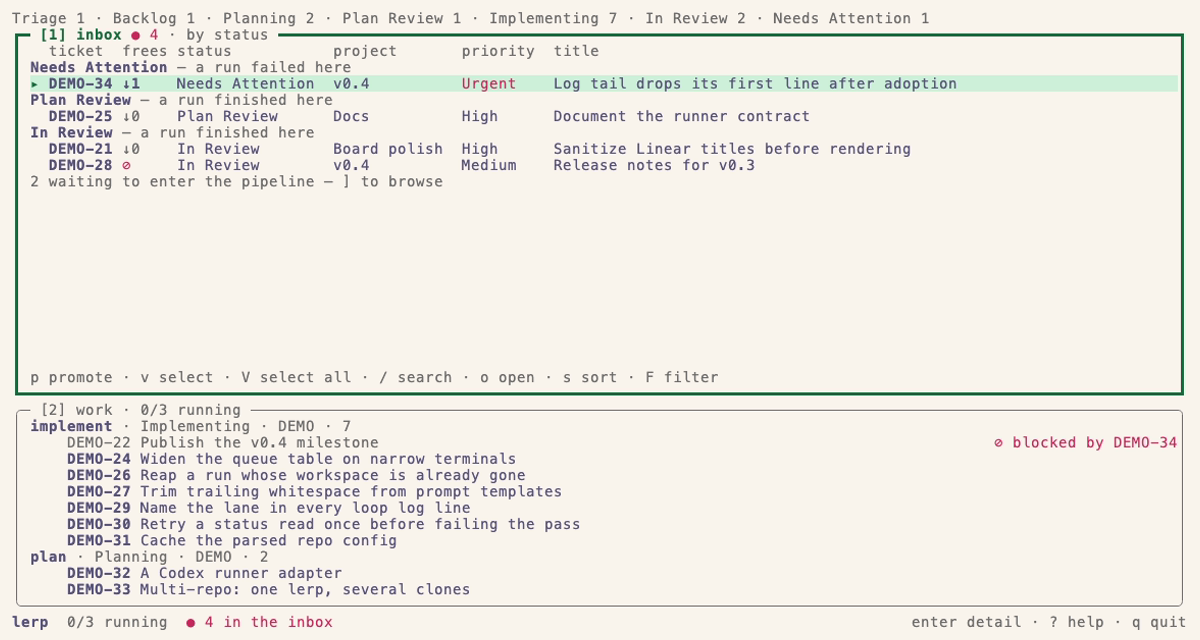
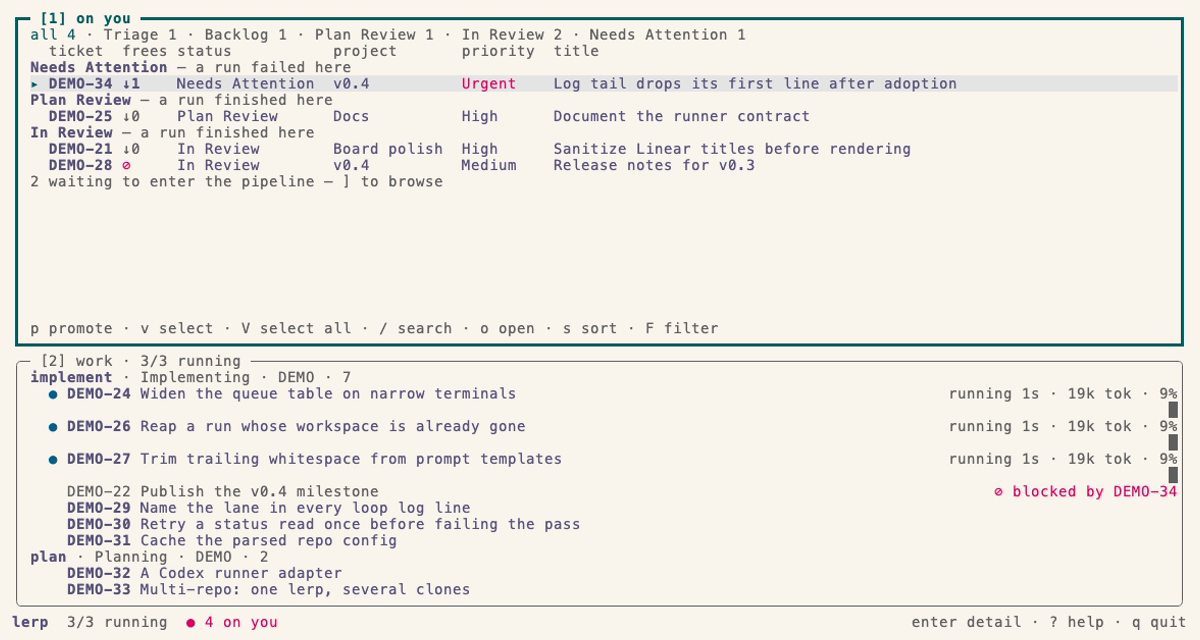
deploy: f49f03e7758522532f2b1356465cad022c835c6d

diff --git a/index.html b/index.html
@@ -35,14 +35,14 @@
   <meta property="og:description" content="A TUI that runs coding agents over your Linear board.">
   <meta property="og:url" content="https://lerp.sh/">
   <meta property="og:image" content="https://lerp.sh/og.png">
-  <meta property="og:image:alt" content="The lerp board: an inbox of tickets waiting on a human, a work panel of queues and three lanes running coding agents">
+  <meta property="og:image:alt" content="The lerp board: tickets waiting on a human in the On you panel, a work panel of queues and three lanes running coding agents">
   <meta property="og:image:width" content="1200">
   <meta property="og:image:height" content="640">
   <meta name="twitter:card" content="summary_large_image">
   <meta name="twitter:title" content="lerp — A TUI that runs coding agents over your Linear board">
   <meta name="twitter:description" content="A TUI that runs coding agents over your Linear board.">
   <meta name="twitter:image" content="https://lerp.sh/og.png">
-  <meta name="twitter:image:alt" content="The lerp board: an inbox of tickets waiting on a human, a work panel of queues and three lanes running coding agents">
+  <meta name="twitter:image:alt" content="The lerp board: tickets waiting on a human in the On you panel, a work panel of queues and three lanes running coding agents">
   <link rel="stylesheet" href="./style.css">
 </head>
 <body>
@@ -108,7 +108,7 @@
 <div class="prose">
   <figure class="cast">
   
-  <video controls autoplay muted loop playsinline preload="metadata" width="1200" height="640" poster="/posters/demo.png" aria-label="The lerp board: an inbox of tickets waiting on a human, a work panel of queues and three lanes running coding agents beneath it, and a main pane that opens beside them to read a ticket or tail a lane&#39;s log">
+  <video controls autoplay muted loop playsinline preload="metadata" width="1200" height="640" poster="/posters/demo.png" aria-label="The lerp board: tickets waiting on a human in the On you panel, a work panel of queues and three lanes running coding agents beneath it, and a main pane that opens beside them to read a ticket or tail a lane&#39;s log">
     <source src="./casts/demo.webm" type="video/webm">
     <source src="./casts/demo.mp4" type="video/mp4">
   </video>

diff --git a/why/index.html b/why/index.html
@@ -35,14 +35,14 @@
   <meta property="og:description" content="What lerp is, what it deliberately is not, and how that differs from the other ways to put agents on a backlog.">
   <meta property="og:url" content="https://lerp.sh/why/">
   <meta property="og:image" content="https://lerp.sh/og.png">
-  <meta property="og:image:alt" content="The lerp board: an inbox of tickets waiting on a human, a work panel of queues and three lanes running coding agents">
+  <meta property="og:image:alt" content="The lerp board: tickets waiting on a human in the On you panel, a work panel of queues and three lanes running coding agents">
   <meta property="og:image:width" content="1200">
   <meta property="og:image:height" content="640">
   <meta name="twitter:card" content="summary_large_image">
   <meta name="twitter:title" content="Why lerp · lerp">
   <meta name="twitter:description" content="What lerp is, what it deliberately is not, and how that differs from the other ways to put agents on a backlog.">
   <meta name="twitter:image" content="https://lerp.sh/og.png">
-  <meta name="twitter:image:alt" content="The lerp board: an inbox of tickets waiting on a human, a work panel of queues and three lanes running coding agents">
+  <meta name="twitter:image:alt" content="The lerp board: tickets waiting on a human in the On you panel, a work panel of queues and three lanes running coding agents">
   <link rel="stylesheet" href="../style.css">
 </head>
 <body>
